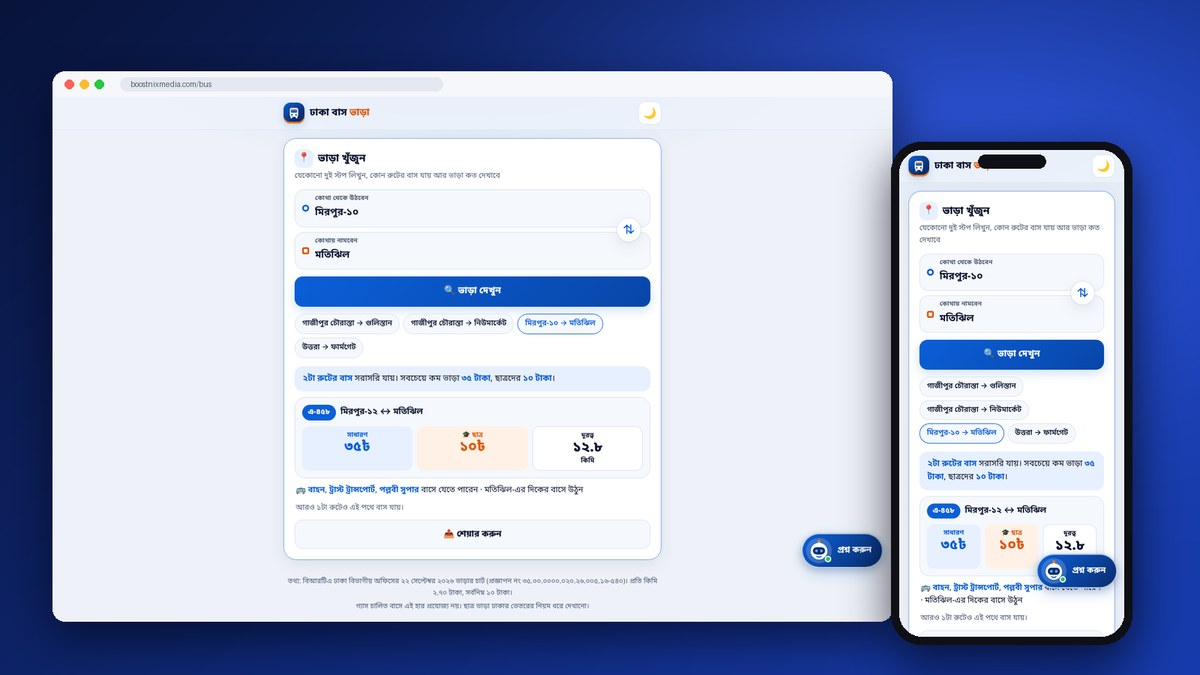
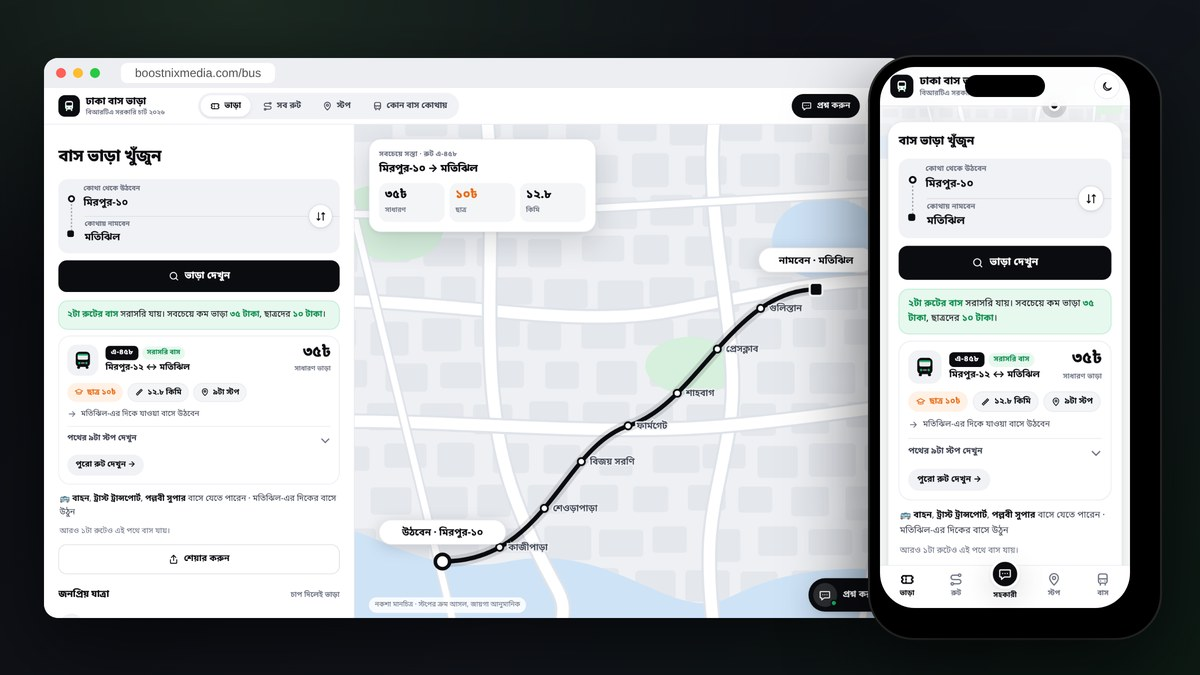
Dhaka Bus Fare: new app-style screenshot, featured in GitHub Pages demos

diff --git a/README.md b/README.md
@@ -64,22 +64,22 @@
 <p>🔗 <a href="https://jutarbazarbd.com/"><b>jutarbazarbd.com</b></a> &nbsp;·&nbsp; <a href="https://github.com/abid2929/JUTAR-BAZAR">Code</a></p>
 </td>
 </tr>
-<tr>
-<td colspan="2" valign="top">
-<a href="https://boostnixmedia.com/bus/"><img src="assets/sites/bus-fare.jpg" alt="Dhaka bus fare finder" width="52%" align="left"></a>
-<h3>🚌 Dhaka Bus Fare</h3>
-<p>Free tool for Dhaka commuters: type any two stops and instantly see which bus routes go there, the official BRTA fare, the student fare and the distance. A Bangla helper bot answers questions.</p>
-<p><kbd>HTML</kbd> <kbd>CSS</kbd> <kbd>JavaScript</kbd> <kbd>BRTA fare data</kbd></p>
-<p>🔗 <a href="https://boostnixmedia.com/bus/"><b>boostnixmedia.com/bus</b></a></p>
-</td>
-</tr>
 </table>
 
 ---
 
-## 🛍 Online shops on GitHub Pages
+## 🚀 Live demos on GitHub Pages
 
 <table>
+<tr>
+<td colspan="3" valign="top">
+<a href="https://abid2929.github.io/DHAKA-BUS-FARE/"><img src="assets/sites/bus-fare.jpg" alt="Dhaka Bus Fare app on PC and phone" width="100%"></a>
+<h3>🚌 Dhaka Bus Fare <sup><kbd>NEW DESIGN</kbd></sup></h3>
+<p>A free, app-style tool for Dhaka commuters. Type any two stops (Bangla, Banglish or with typos) and instantly get the official BRTA fare, the student fare, the distance and every stop on the way. On PC the trip is drawn on a map; on phone it works like a ride app with a bottom tab bar. Also: 113 routes, 300+ stops, 82 bus companies, one-change trip suggestions, dark mode and a Bangla helper bot.</p>
+<p><kbd>HTML</kbd> <kbd>CSS</kbd> <kbd>JavaScript</kbd> <kbd>BRTA fare data</kbd> <kbd>Bangla bot</kbd></p>
+<p>🔗 <a href="https://abid2929.github.io/DHAKA-BUS-FARE/"><b>Open demo</b></a> · <a href="https://boostnixmedia.com/bus/">Live site</a> · <a href="https://github.com/abid2929/DHAKA-BUS-FARE">Code</a></p>
+</td>
+</tr>
 <tr>
 <td width="33%" valign="top">
 <a href="https://abid2929.github.io/petverse/"><img src="assets/sites/petverse.jpg" alt="PetVerse pet shop" width="100%"></a>
